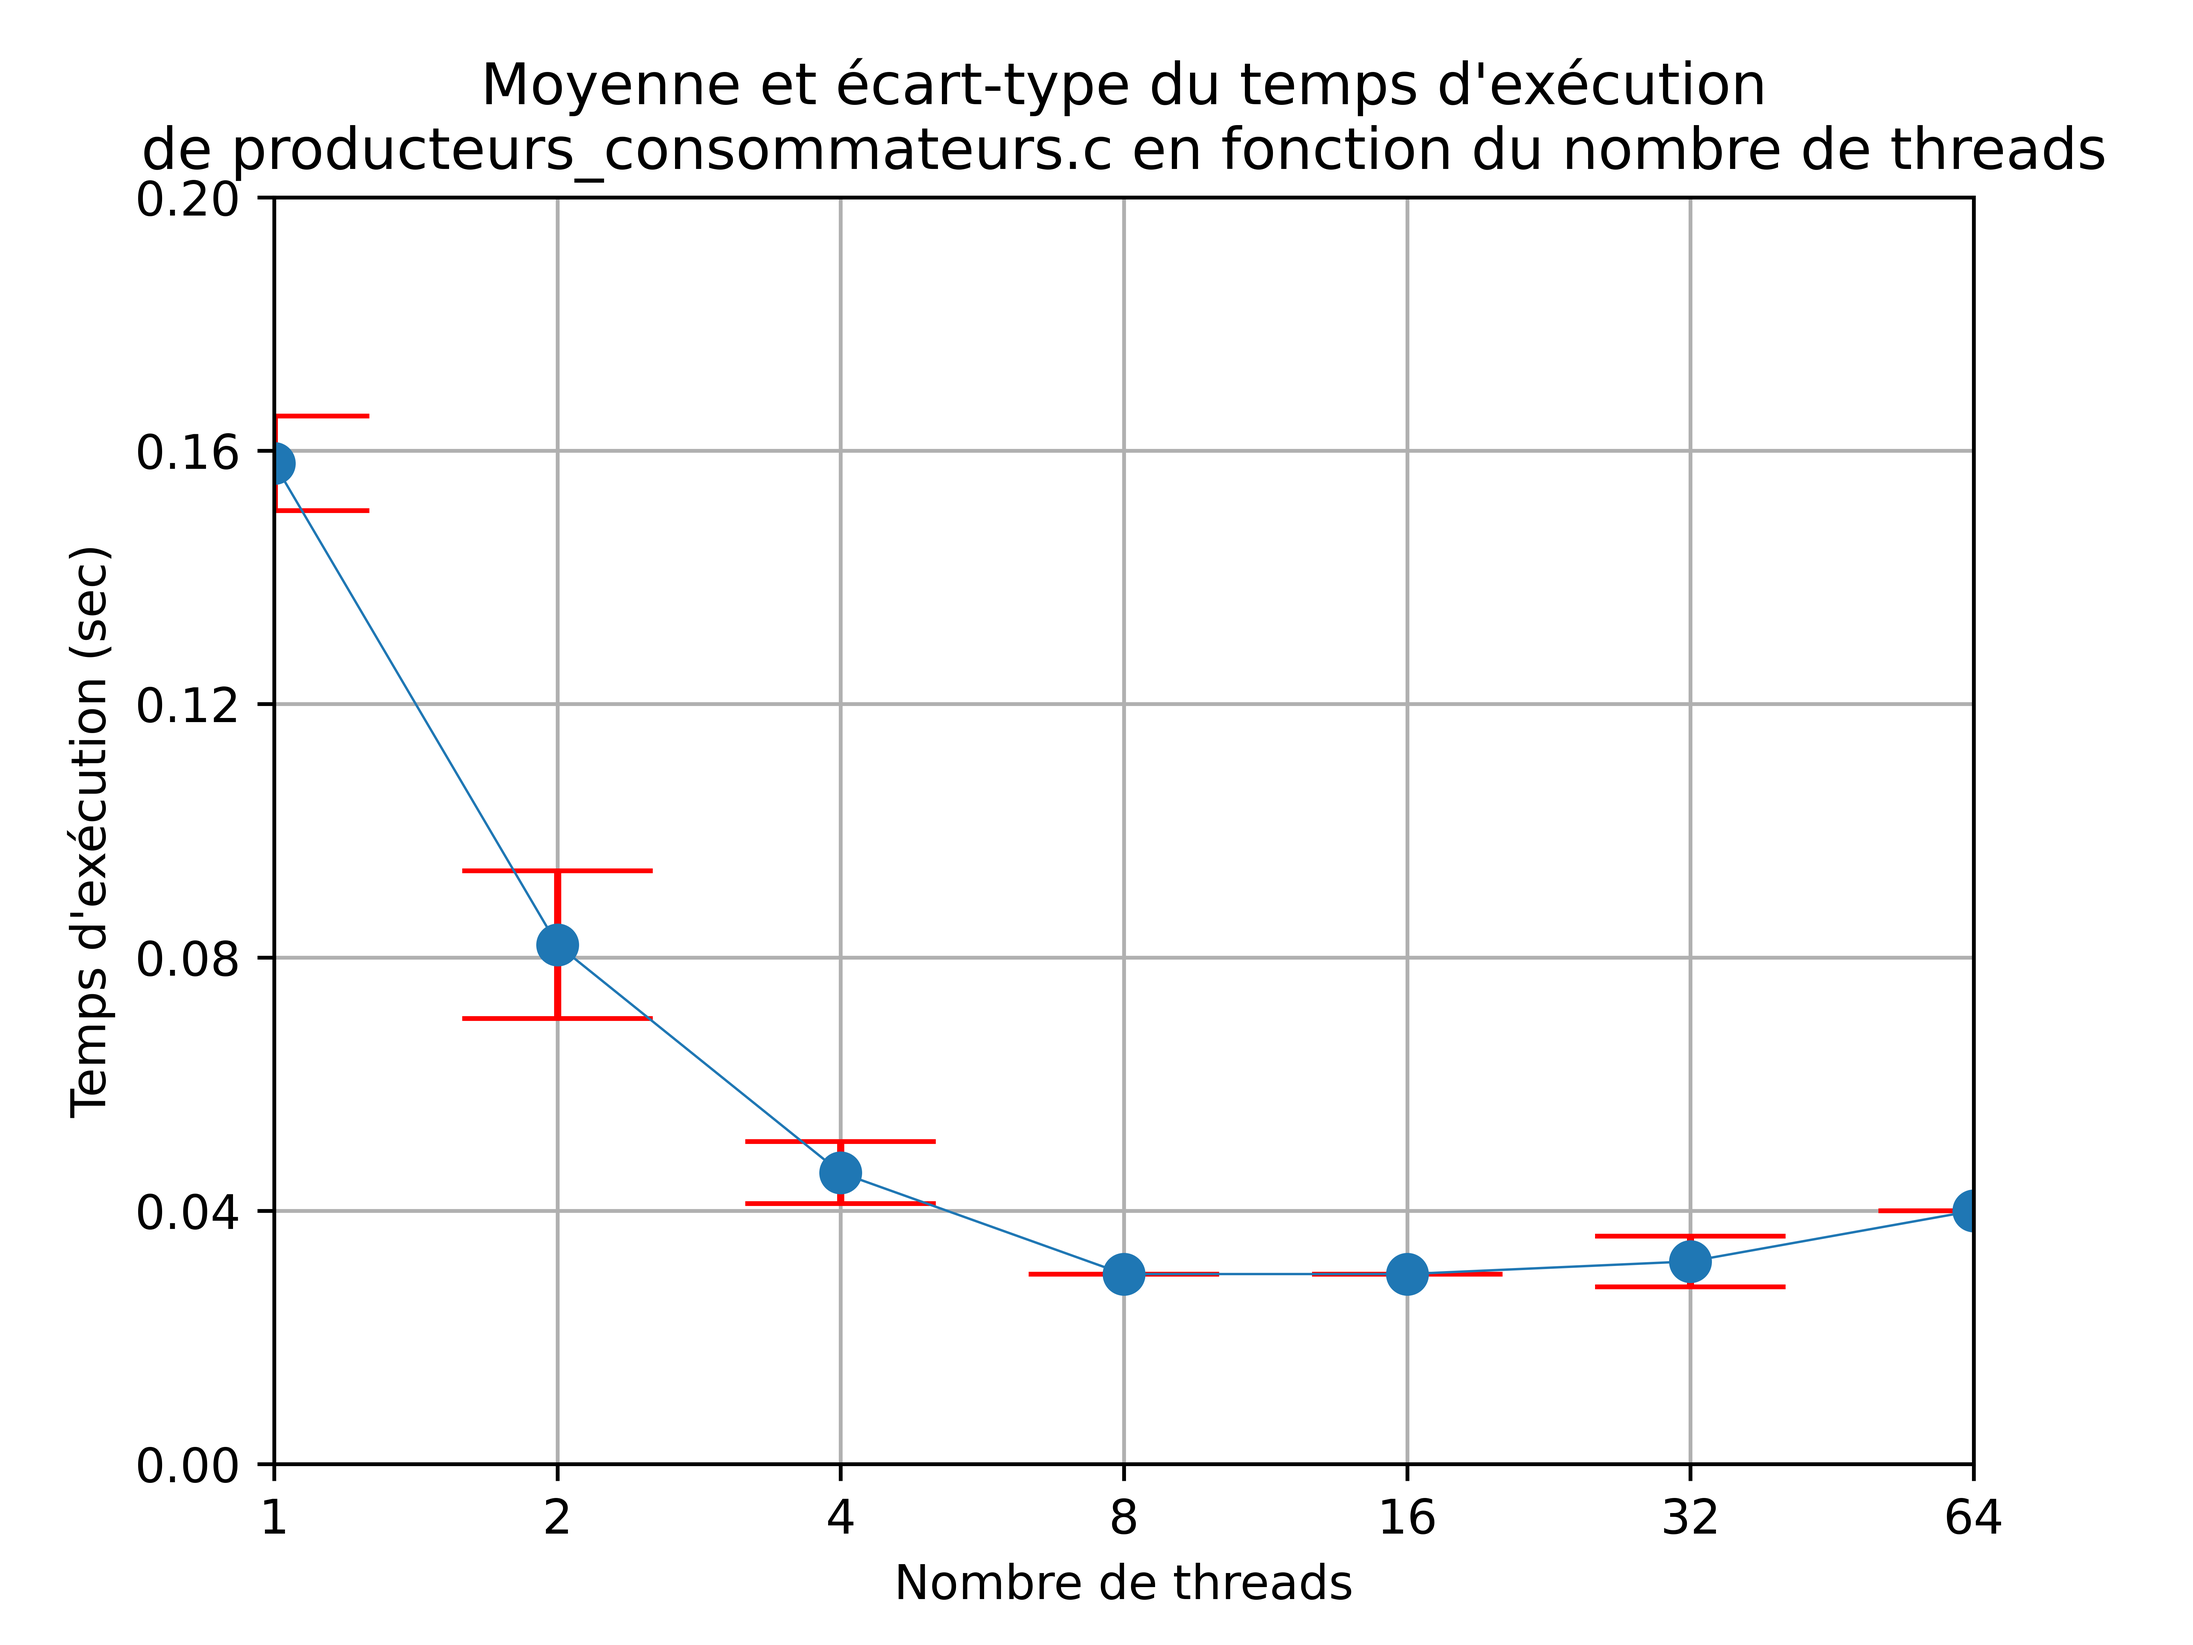
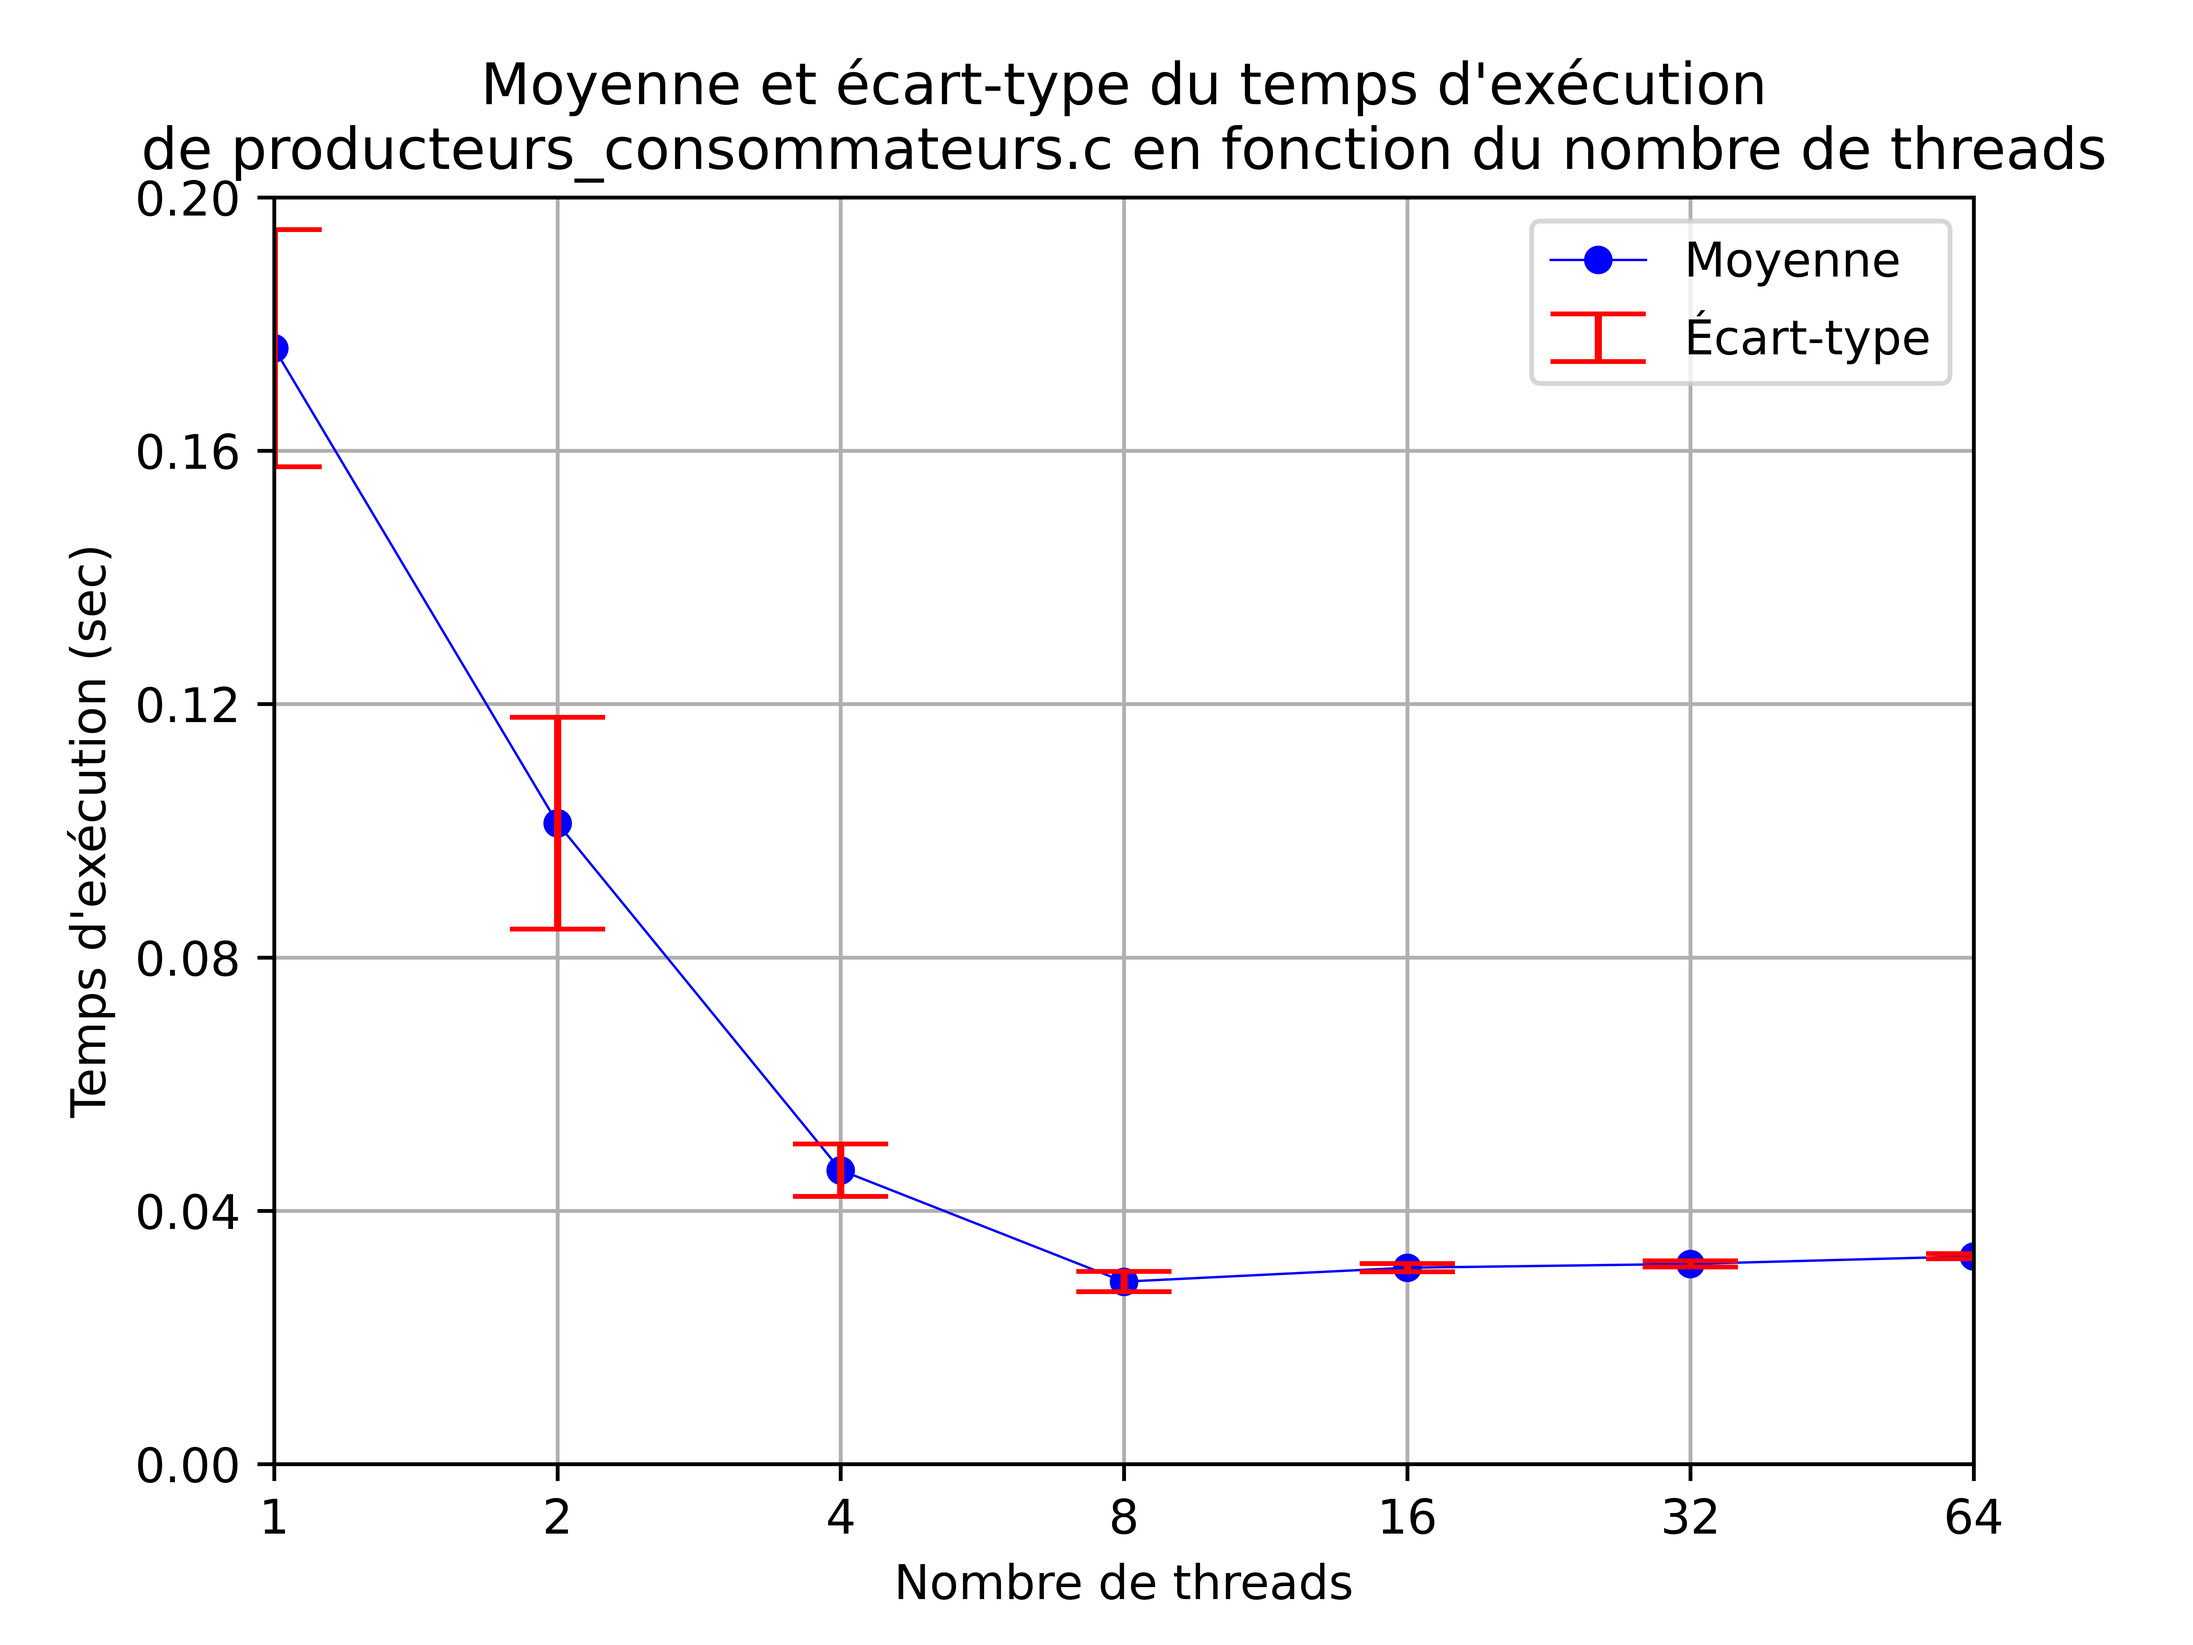
milliseconds instead of seconds + Mean and Std separated

diff --git a/plot.py b/plot.py
@@ -16,6 +16,9 @@ def standard_dev(data):
     var = variance(data)
     return np.sqrt(var)
 
+def to_milli(data):
+    return [x/1000 for x in data]
+
 # Extract data
 with open("philosophes.csv", "r") as file:
     reader = csv.reader(file)
@@ -64,7 +67,9 @@ StDev_read_write = [standard_dev(data_read_write[0]), standard_dev(data_read_wri
 
 # Plot
 fig1 = plt.figure()
-plt.errorbar(X, Mean_philo, yerr=StDev_philo, linestyle="solid", linewidth=0.5, ecolor="red", elinewidth=1.5, capsize=20, markersize=8, fmt="o")
+plt.plot(X, to_milli(Mean_philo), "o", color="blue", markersize=5, linestyle="solid", linewidth=0.5)
+plt.errorbar(X, to_milli(Mean_philo), yerr=to_milli(StDev_philo), linestyle="None", ecolor="red", elinewidth=1.5, markersize=0, capsize=10, fmt="o")
+plt.legend(['Moyenne', 'Écart-type'], loc='best')
 plt.xlim(1, 6)
 plt.xticks(np.arange(7), [1, 2, 4, 8, 16, 32, 64])
 plt.xlabel('Nombre de threads')
@@ -74,10 +79,11 @@ plt.ylabel('Temps d\'exécution (sec)')
 plt.title('Moyenne et écart-type du temps d\'exécution\nde philosophes.c en fonction du nombre de threads')
 plt.grid(True)
 plt.savefig("philosophes_performances.png", dpi=1000)
-# plt.show()
 
 fig2 = plt.figure()
-plt.errorbar(X, Mean_prod_conso, yerr=StDev_prod_conso, linestyle="solid", linewidth=0.5, ecolor="red", elinewidth=1.5, capsize=20, markersize=8, fmt="o")
+plt.plot(X, to_milli(Mean_prod_conso), "o", color="blue", markersize=5, linestyle="solid", linewidth=0.5)
+plt.errorbar(X, to_milli(Mean_prod_conso), yerr=to_milli(StDev_prod_conso), linestyle="None", ecolor="red", elinewidth=1.5, markersize=0, capsize=10, fmt="o")
+plt.legend(['Moyenne', 'Écart-type'], loc='best')
 plt.xlim(1, 6)
 plt.xticks(np.arange(7), [1, 2, 4, 8, 16, 32, 64])
 plt.xlabel('Nombre de threads')
@@ -87,10 +93,11 @@ plt.ylabel('Temps d\'exécution (sec)')
 plt.title('Moyenne et écart-type du temps d\'exécution\nde producteurs_consommateurs.c en fonction du nombre de threads')
 plt.grid(True)
 plt.savefig("producteurs_consommateurs_performances.png", dpi=1000)
-# plt.show()
 
 fig3 = plt.figure()
-plt.errorbar(X, Mean_read_write, yerr=StDev_read_write, linestyle="solid", linewidth=0.5, ecolor="red", elinewidth=1.5, capsize=20, markersize=8, fmt="o")
+plt.plot(X, to_milli(Mean_read_write), "o", color="blue", markersize=5, linestyle="solid", linewidth=0.5)
+plt.errorbar(X, to_milli(Mean_read_write), yerr=to_milli(StDev_read_write), linestyle="None", ecolor="red", elinewidth=1.5, markersize=0, capsize=10, fmt="o")
+plt.legend(['Moyenne', 'Écart-type'], loc='best')
 plt.xlim(1, 6)
 plt.xticks(np.arange(7), [1, 2, 4, 8, 16, 32, 64])
 plt.xlabel('Nombre de threads')
